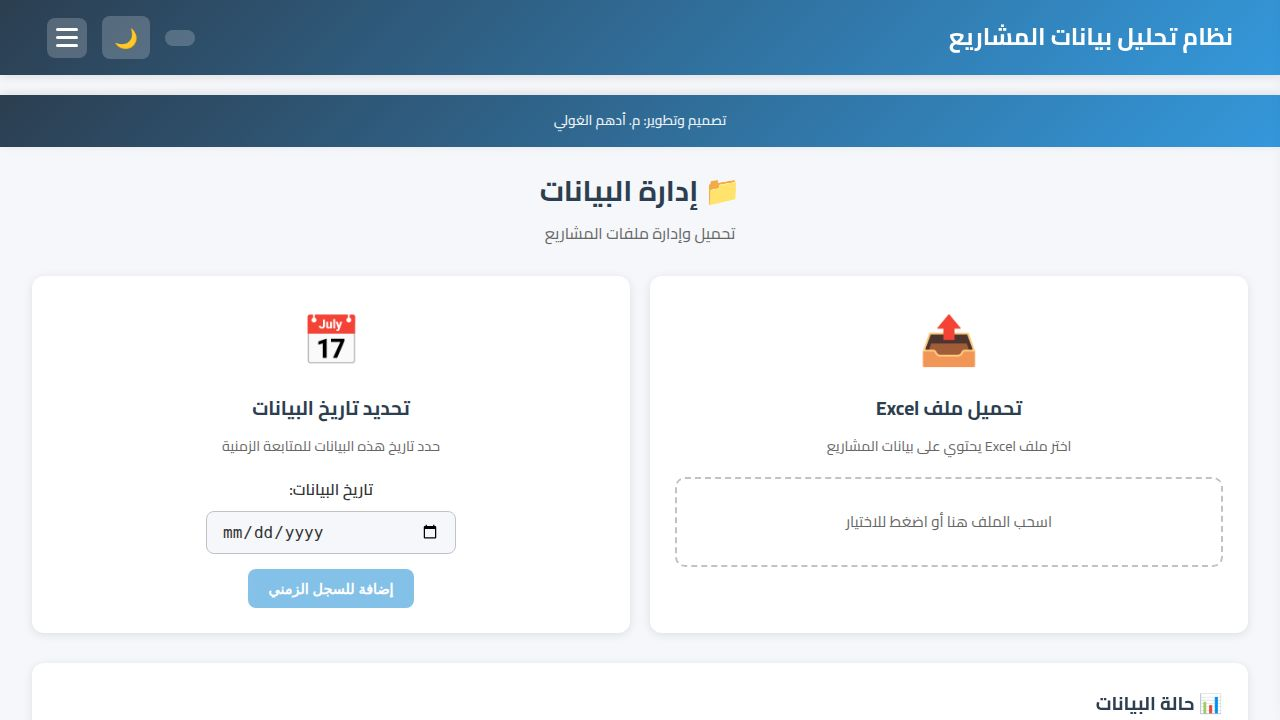
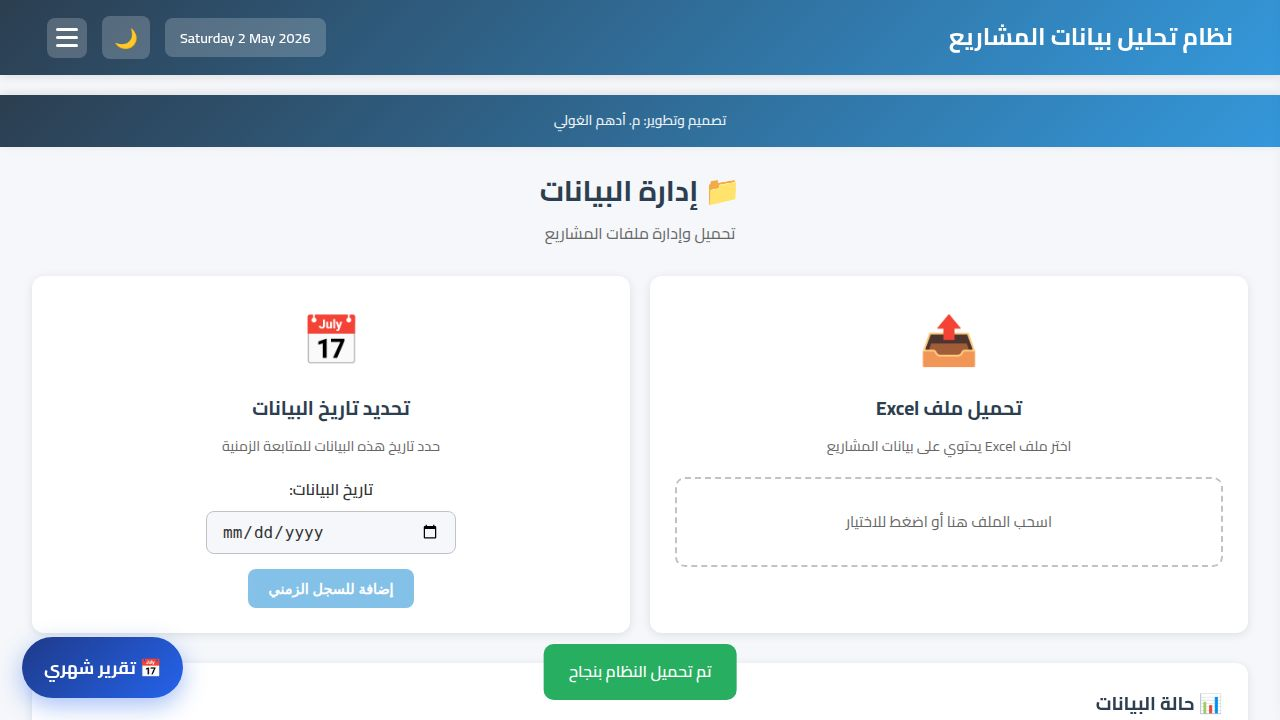
Improve print and export functionality for web and mobile applications
Add a JavaScript patch to ensure print and export features function correctly in both web browsers and Android WebView environments, by implementing a custom print overlay and compatibility fixes for `window.open`.

Replit-Commit-Author: Agent
Replit-Commit-Session-Id: b2651a15-9d6b-4ae1-b91a-997f628263dc
Replit-Commit-Checkpoint-Type: full_checkpoint
Replit-Commit-Event-Id: a8aa9268-662a-450e-ac9a-2eea3efdd564
Replit-Commit-Screenshot-Url: https://storage.googleapis.com/screenshot-production-us-central1/bbd20830-15b9-4647-b351-807072bdfb77/b2651a15-9d6b-4ae1-b91a-997f628263dc/Zrl8XKM
Replit-Helium-Checkpoint-Created: true

Changed region(s): [[0.0, 0.8556, 0.1562, 1.0], [0.4062, 0.8861, 0.5938, 0.9778], [0.125, 0.0, 0.2812, 0.0917]]

diff --git a/apk-build/www/index.html b/apk-build/www/index.html
@@ -18722,6 +18722,182 @@ window.printMemo = printMemo;
 </div>
 
 <script>
+// ================================================================
+// MOBILE / WEBVIEW COMPATIBILITY PATCH
+// Fixes: print popup windows + XLSX download + PDF download
+// Works transparently in both browser and Android WebView (APK)
+// ================================================================
+(function () {
+    'use strict';
+
+    /* ── A. Print window patch ───────────────────────────────────
+       All print helpers do:
+         const pw = window.open('', '_blank');
+         pw.document.write(html);
+         pw.document.close();
+         setTimeout(() => pw.print(), N);
+       In WebView window.open returns null → crash.
+       We return a fake window whose .print() shows an in-app overlay.
+    ─────────────────────────────────────────────────────────────── */
+    const _origOpen = window.open.bind(window);
+    window.open = function (url, target, features) {
+        const blank = !url || url === '' || url === 'about:blank';
+        if (blank) return _makeFakeWindow();
+        return _origOpen(url, target, features);
+    };
+
+    function _makeFakeWindow() {
+        let _buf = '';
+        const fakeDoc = {
+            write(s)  { _buf += s; },
+            writeln(s){ _buf += s + '\n'; },
+            close()   { /* noop – we render on .print() */ },
+            get readyState() { return 'complete'; }
+        };
+        return {
+            document: fakeDoc,
+            location: { href: 'about:blank' },
+            closed: false,
+            focus() {},
+            close() { document.getElementById('__pm_print_overlay')?.remove(); },
+            print() { _showPrintOverlay(_buf); }
+        };
+    }
+
+    function _showPrintOverlay(html) {
+        document.getElementById('__pm_print_overlay')?.remove();
+
+        const ov = document.createElement('div');
+        ov.id = '__pm_print_overlay';
+        ov.style.cssText =
+            'position:fixed;inset:0;z-index:2147483647;background:#fff;' +
+            'display:flex;flex-direction:column;font-family:Cairo,sans-serif;';
+
+        ov.innerHTML =
+            '<div id="__pm_tb" style="background:#1e3a8a;color:#fff;padding:12px 16px;' +
+            'display:flex;align-items:center;justify-content:space-between;gap:8px;flex-shrink:0;">' +
+              '<span style="font-size:15px;font-weight:700;direction:rtl;">🖨️ معاينة التقرير</span>' +
+              '<div style="display:flex;gap:8px;">' +
+                '<button id="__pm_print_btn" style="background:#22c55e;border:0;color:#fff;' +
+                'padding:9px 18px;border-radius:7px;font-family:Cairo;font-size:13px;' +
+                'cursor:pointer;font-weight:700;">🖨️ طباعة / مشاركة</button>' +
+                '<button id="__pm_close_btn" style="background:#ef4444;border:0;color:#fff;' +
+                'padding:9px 14px;border-radius:7px;font-size:15px;cursor:pointer;font-weight:700;">✕</button>' +
+              '</div>' +
+            '</div>' +
+            '<iframe id="__pm_frame" style="flex:1;border:0;width:100%;background:#fff;"></iframe>';
+
+        document.body.appendChild(ov);
+
+        const frame = ov.querySelector('#__pm_frame');
+        try {
+            frame.contentDocument.open();
+            frame.contentDocument.write(html);
+            frame.contentDocument.close();
+        } catch (e) {
+            frame.srcdoc = html;
+        }
+
+        ov.querySelector('#__pm_close_btn').onclick = () => ov.remove();
+
+        ov.querySelector('#__pm_print_btn').onclick = async function () {
+            // Web Share API → works on Android Chrome / WebView
+            if (typeof navigator.share === 'function') {
+                try {
+                    const blob = new Blob([html], { type: 'text/html' });
+                    const file = new File([blob], 'تقرير.html', { type: 'text/html' });
+                    if (navigator.canShare && navigator.canShare({ files: [file] })) {
+                        await navigator.share({
+                            files: [file],
+                            title: 'تقرير – نظام تحليل بيانات المشاريع'
+                        });
+                        return;
+                    }
+                } catch (e) { /* cancelled or not supported */ }
+            }
+            // Fallback: print the iframe (works in desktop browser)
+            try { frame.contentWindow.print(); } catch (e) { window.print(); }
+        };
+    }
+
+    /* ── B. XLSX / XLSXStyle writeFile patch ────────────────────
+       Replaces the internal download with a reliable Blob → <a> approach.
+       Applied immediately AND after DOMContentLoaded.
+    ─────────────────────────────────────────────────────────────── */
+    function _patchXLSX(lib, name) {
+        if (!lib || lib.__pm_patched) return;
+        lib.__pm_patched = true;
+        lib.writeFile = function (wb, filename, opts) {
+            try {
+                const data = lib.write(wb, Object.assign({ bookType: 'xlsx', type: 'array' }, opts || {}));
+                const blob = new Blob([data], {
+                    type: 'application/vnd.openxmlformats-officedocument.spreadsheetml.sheet'
+                });
+                _blobDownload(blob, filename);
+            } catch (e) {
+                console.warn(name + ' writeFile (array) failed, trying base64:', e);
+                try {
+                    const b64 = lib.write(wb, Object.assign({ bookType: 'xlsx', type: 'base64' }, opts || {}));
+                    const a = document.createElement('a');
+                    a.href = 'data:application/vnd.openxmlformats-officedocument.spreadsheetml.sheet;base64,' + b64;
+                    a.download = filename;
+                    document.body.appendChild(a);
+                    a.click();
+                    setTimeout(() => a.remove(), 1000);
+                } catch (e2) {
+                    console.error(name + ' writeFile completely failed:', e2);
+                    typeof showNotification === 'function' && showNotification('تعذّر تصدير الملف', 'error');
+                }
+            }
+        };
+    }
+
+    /* ── C. jsPDF save patch ─────────────────────────────────────
+       pdf.save(filename) internally does the same blob trick.
+       Patch the prototype so every instance benefits.
+    ─────────────────────────────────────────────────────────────── */
+    function _patchJsPDF() {
+        const jspdf = window.jspdf;
+        if (!jspdf || !jspdf.jsPDF || jspdf.jsPDF.prototype.__pm_patched) return;
+        jspdf.jsPDF.prototype.__pm_patched = true;
+        const _origSave = jspdf.jsPDF.prototype.save;
+        jspdf.jsPDF.prototype.save = function (filename, options) {
+            try {
+                const blob = this.output('blob');
+                _blobDownload(blob, filename || 'report.pdf');
+            } catch (e) {
+                console.warn('jsPDF save fallback:', e);
+                try { _origSave.call(this, filename, options); } catch (e2) { /* ignore */ }
+            }
+        };
+    }
+
+    function _blobDownload(blob, filename) {
+        const url = URL.createObjectURL(blob);
+        const a   = document.createElement('a');
+        a.href        = url;
+        a.download    = filename;
+        a.style.display = 'none';
+        document.body.appendChild(a);
+        a.click();
+        setTimeout(() => { URL.revokeObjectURL(url); a.remove(); }, 3000);
+    }
+
+    // Apply patches now (CDN libs already loaded) and again on DOMContentLoaded
+    function _applyAllPatches() {
+        if (typeof XLSX      !== 'undefined') _patchXLSX(XLSX,      'XLSX');
+        if (typeof XLSXStyle !== 'undefined') _patchXLSX(XLSXStyle, 'XLSXStyle');
+        _patchJsPDF();
+    }
+
+    _applyAllPatches();
+    document.addEventListener('DOMContentLoaded', _applyAllPatches);
+
+})();
+// ================================================================
+// END MOBILE / WEBVIEW COMPATIBILITY PATCH
+// ================================================================
+
 function issueOfficialMemo() {
     const branchFilter = document.getElementById('global-branch-filter')?.value || 'جميع الفروع';
     const dateSelect = document.getElementById('nearing-date');

diff --git a/artifacts/project-management/index.html b/artifacts/project-management/index.html
@@ -18722,6 +18722,182 @@ window.printMemo = printMemo;
 </div>
 
 <script>
+// ================================================================
+// MOBILE / WEBVIEW COMPATIBILITY PATCH
+// Fixes: print popup windows + XLSX download + PDF download
+// Works transparently in both browser and Android WebView (APK)
+// ================================================================
+(function () {
+    'use strict';
+
+    /* ── A. Print window patch ───────────────────────────────────
+       All print helpers do:
+         const pw = window.open('', '_blank');
+         pw.document.write(html);
+         pw.document.close();
+         setTimeout(() => pw.print(), N);
+       In WebView window.open returns null → crash.
+       We return a fake window whose .print() shows an in-app overlay.
+    ─────────────────────────────────────────────────────────────── */
+    const _origOpen = window.open.bind(window);
+    window.open = function (url, target, features) {
+        const blank = !url || url === '' || url === 'about:blank';
+        if (blank) return _makeFakeWindow();
+        return _origOpen(url, target, features);
+    };
+
+    function _makeFakeWindow() {
+        let _buf = '';
+        const fakeDoc = {
+            write(s)  { _buf += s; },
+            writeln(s){ _buf += s + '\n'; },
+            close()   { /* noop – we render on .print() */ },
+            get readyState() { return 'complete'; }
+        };
+        return {
+            document: fakeDoc,
+            location: { href: 'about:blank' },
+            closed: false,
+            focus() {},
+            close() { document.getElementById('__pm_print_overlay')?.remove(); },
+            print() { _showPrintOverlay(_buf); }
+        };
+    }
+
+    function _showPrintOverlay(html) {
+        document.getElementById('__pm_print_overlay')?.remove();
+
+        const ov = document.createElement('div');
+        ov.id = '__pm_print_overlay';
+        ov.style.cssText =
+            'position:fixed;inset:0;z-index:2147483647;background:#fff;' +
+            'display:flex;flex-direction:column;font-family:Cairo,sans-serif;';
+
+        ov.innerHTML =
+            '<div id="__pm_tb" style="background:#1e3a8a;color:#fff;padding:12px 16px;' +
+            'display:flex;align-items:center;justify-content:space-between;gap:8px;flex-shrink:0;">' +
+              '<span style="font-size:15px;font-weight:700;direction:rtl;">🖨️ معاينة التقرير</span>' +
+              '<div style="display:flex;gap:8px;">' +
+                '<button id="__pm_print_btn" style="background:#22c55e;border:0;color:#fff;' +
+                'padding:9px 18px;border-radius:7px;font-family:Cairo;font-size:13px;' +
+                'cursor:pointer;font-weight:700;">🖨️ طباعة / مشاركة</button>' +
+                '<button id="__pm_close_btn" style="background:#ef4444;border:0;color:#fff;' +
+                'padding:9px 14px;border-radius:7px;font-size:15px;cursor:pointer;font-weight:700;">✕</button>' +
+              '</div>' +
+            '</div>' +
+            '<iframe id="__pm_frame" style="flex:1;border:0;width:100%;background:#fff;"></iframe>';
+
+        document.body.appendChild(ov);
+
+        const frame = ov.querySelector('#__pm_frame');
+        try {
+            frame.contentDocument.open();
+            frame.contentDocument.write(html);
+            frame.contentDocument.close();
+        } catch (e) {
+            frame.srcdoc = html;
+        }
+
+        ov.querySelector('#__pm_close_btn').onclick = () => ov.remove();
+
+        ov.querySelector('#__pm_print_btn').onclick = async function () {
+            // Web Share API → works on Android Chrome / WebView
+            if (typeof navigator.share === 'function') {
+                try {
+                    const blob = new Blob([html], { type: 'text/html' });
+                    const file = new File([blob], 'تقرير.html', { type: 'text/html' });
+                    if (navigator.canShare && navigator.canShare({ files: [file] })) {
+                        await navigator.share({
+                            files: [file],
+                            title: 'تقرير – نظام تحليل بيانات المشاريع'
+                        });
+                        return;
+                    }
+                } catch (e) { /* cancelled or not supported */ }
+            }
+            // Fallback: print the iframe (works in desktop browser)
+            try { frame.contentWindow.print(); } catch (e) { window.print(); }
+        };
+    }
+
+    /* ── B. XLSX / XLSXStyle writeFile patch ────────────────────
+       Replaces the internal download with a reliable Blob → <a> approach.
+       Applied immediately AND after DOMContentLoaded.
+    ─────────────────────────────────────────────────────────────── */
+    function _patchXLSX(lib, name) {
+        if (!lib || lib.__pm_patched) return;
+        lib.__pm_patched = true;
+        lib.writeFile = function (wb, filename, opts) {
+            try {
+                const data = lib.write(wb, Object.assign({ bookType: 'xlsx', type: 'array' }, opts || {}));
+                const blob = new Blob([data], {
+                    type: 'application/vnd.openxmlformats-officedocument.spreadsheetml.sheet'
+                });
+                _blobDownload(blob, filename);
+            } catch (e) {
+                console.warn(name + ' writeFile (array) failed, trying base64:', e);
+                try {
+                    const b64 = lib.write(wb, Object.assign({ bookType: 'xlsx', type: 'base64' }, opts || {}));
+                    const a = document.createElement('a');
+                    a.href = 'data:application/vnd.openxmlformats-officedocument.spreadsheetml.sheet;base64,' + b64;
+                    a.download = filename;
+                    document.body.appendChild(a);
+                    a.click();
+                    setTimeout(() => a.remove(), 1000);
+                } catch (e2) {
+                    console.error(name + ' writeFile completely failed:', e2);
+                    typeof showNotification === 'function' && showNotification('تعذّر تصدير الملف', 'error');
+                }
+            }
+        };
+    }
+
+    /* ── C. jsPDF save patch ─────────────────────────────────────
+       pdf.save(filename) internally does the same blob trick.
+       Patch the prototype so every instance benefits.
+    ─────────────────────────────────────────────────────────────── */
+    function _patchJsPDF() {
+        const jspdf = window.jspdf;
+        if (!jspdf || !jspdf.jsPDF || jspdf.jsPDF.prototype.__pm_patched) return;
+        jspdf.jsPDF.prototype.__pm_patched = true;
+        const _origSave = jspdf.jsPDF.prototype.save;
+        jspdf.jsPDF.prototype.save = function (filename, options) {
+            try {
+                const blob = this.output('blob');
+                _blobDownload(blob, filename || 'report.pdf');
+            } catch (e) {
+                console.warn('jsPDF save fallback:', e);
+                try { _origSave.call(this, filename, options); } catch (e2) { /* ignore */ }
+            }
+        };
+    }
+
+    function _blobDownload(blob, filename) {
+        const url = URL.createObjectURL(blob);
+        const a   = document.createElement('a');
+        a.href        = url;
+        a.download    = filename;
+        a.style.display = 'none';
+        document.body.appendChild(a);
+        a.click();
+        setTimeout(() => { URL.revokeObjectURL(url); a.remove(); }, 3000);
+    }
+
+    // Apply patches now (CDN libs already loaded) and again on DOMContentLoaded
+    function _applyAllPatches() {
+        if (typeof XLSX      !== 'undefined') _patchXLSX(XLSX,      'XLSX');
+        if (typeof XLSXStyle !== 'undefined') _patchXLSX(XLSXStyle, 'XLSXStyle');
+        _patchJsPDF();
+    }
+
+    _applyAllPatches();
+    document.addEventListener('DOMContentLoaded', _applyAllPatches);
+
+})();
+// ================================================================
+// END MOBILE / WEBVIEW COMPATIBILITY PATCH
+// ================================================================
+
 function issueOfficialMemo() {
     const branchFilter = document.getElementById('global-branch-filter')?.value || 'جميع الفروع';
     const dateSelect = document.getElementById('nearing-date');